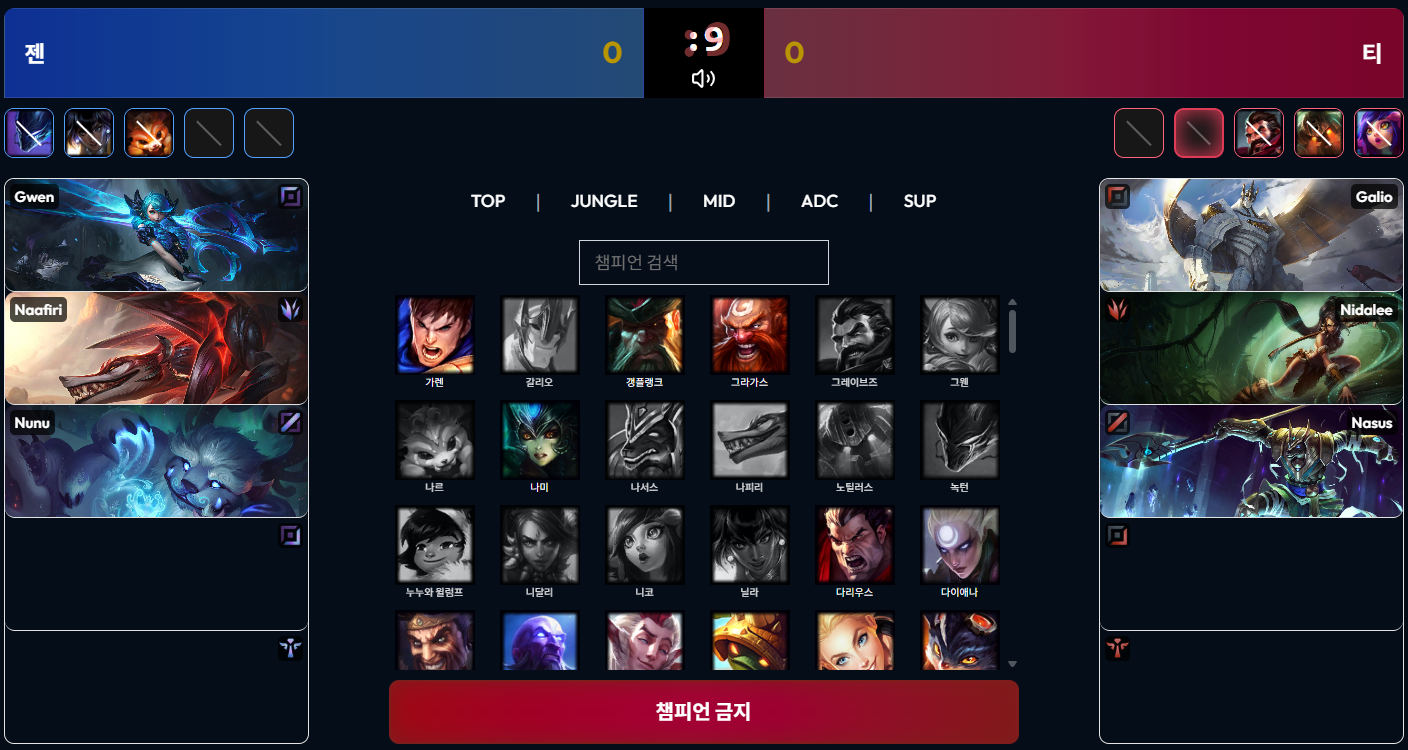
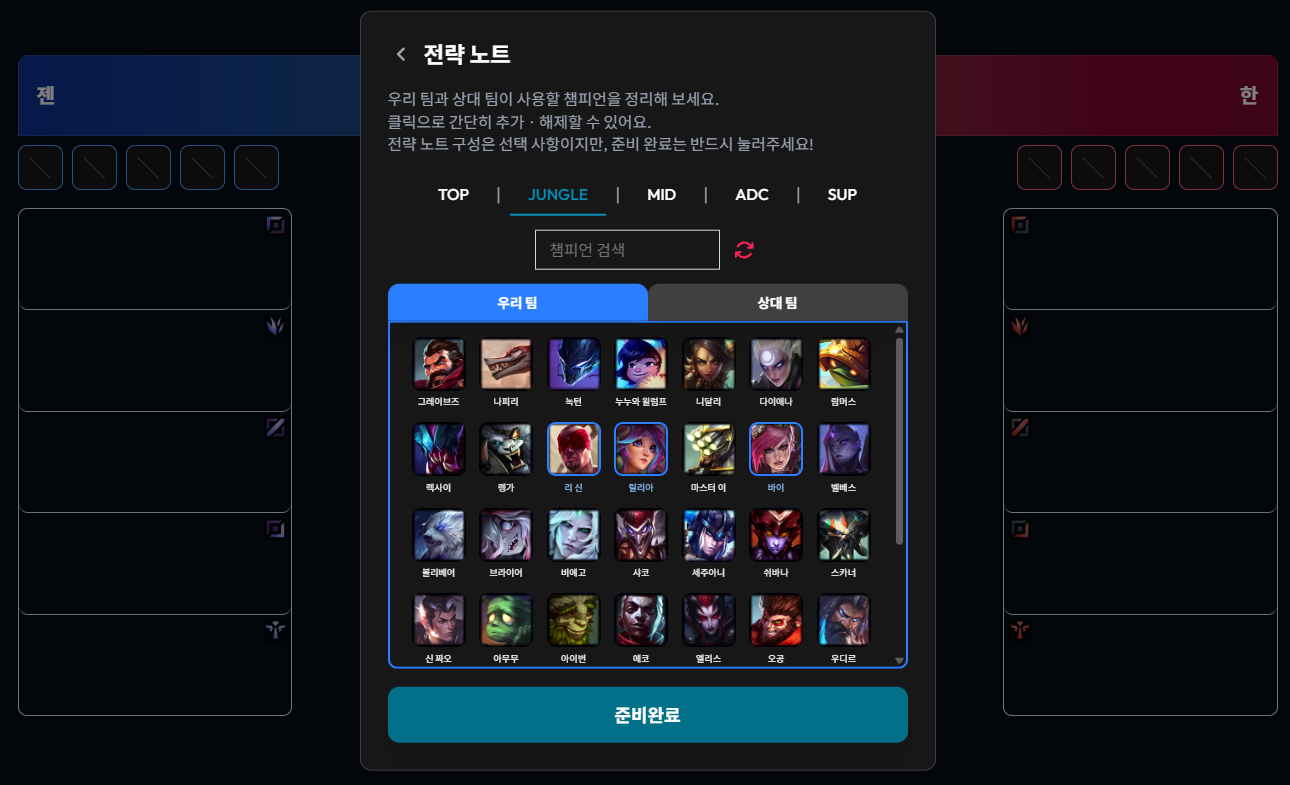
style: adjust strategy note modal size for mobile view

diff --git a/src/pages/components/BanPickSimulation/ScreenshotCarousel.tsx b/src/pages/components/BanPickSimulation/ScreenshotCarousel.tsx
@@ -7,8 +7,6 @@ const screenshots = [
   "/screenshots/sim-3.png",
   "/screenshots/sim-4.png",
   "/screenshots/sim-5.png",
-  "/screenshots/sim-6.png",
-  "/screenshots/sim-7.png",
 ];
 
 const ScreenshotCarousel = () => {
@@ -22,19 +20,19 @@ const ScreenshotCarousel = () => {
   };
 
   return (
-    <div className="relative w-full h-80 flex items-center justify-center overflow-hidden mt-4">
+    <div className="relative w-full h-100 flex items-center justify-center overflow-hidden mt-4">
       <div className="flex items-center justify-center w-full h-full relative">
         {screenshots.map((src, i) => {
           const diff = (i - index + screenshots.length) % screenshots.length;
 
           let className =
-            "absolute w-96 h-48 rounded-lg shadow-lg transition-all duration-500 overflow-hidden";
+            "absolute w-90 h-72 rounded-lg shadow-lg transition-all duration-500 overflow-hidden";
           let style: React.CSSProperties = {};
           let pointer: React.CSSProperties["pointerEvents"] = "none";
 
           if (diff === 0) {
             // Center
-            className += " scale-160 opacity-100 z-20 cursor-pointer";
+            className += " scale-180 opacity-100 z-20 cursor-pointer";
             style = { transform: "translateX(0%)" };
             pointer = "auto";
           } else if (diff === 1) {

diff --git a/src/pages/components/BanPickSimulation/ChampNoteModal.tsx b/src/pages/components/BanPickSimulation/ChampNoteModal.tsx
@@ -94,7 +94,7 @@ export default function ChampNoteModal({
       <Draggable nodeRef={nodeRef} handle=".modal-header">
         <div
           ref={nodeRef}
-          className="bg-neutral-900/90 rounded-2xl p-6 w-[40%] shadow-2xl"
+          className="bg-neutral-900/90 rounded-2xl p-6 w-[90%] md:w-[60%] lg:w-[50%] xl:w-[40%] shadow-2xl max-h-[70vh] overflow-y-scroll"
           onClick={(e) => e.stopPropagation()}
         >
           <div className="modal-header flex justify-between items-center mb-2 cursor-move">
